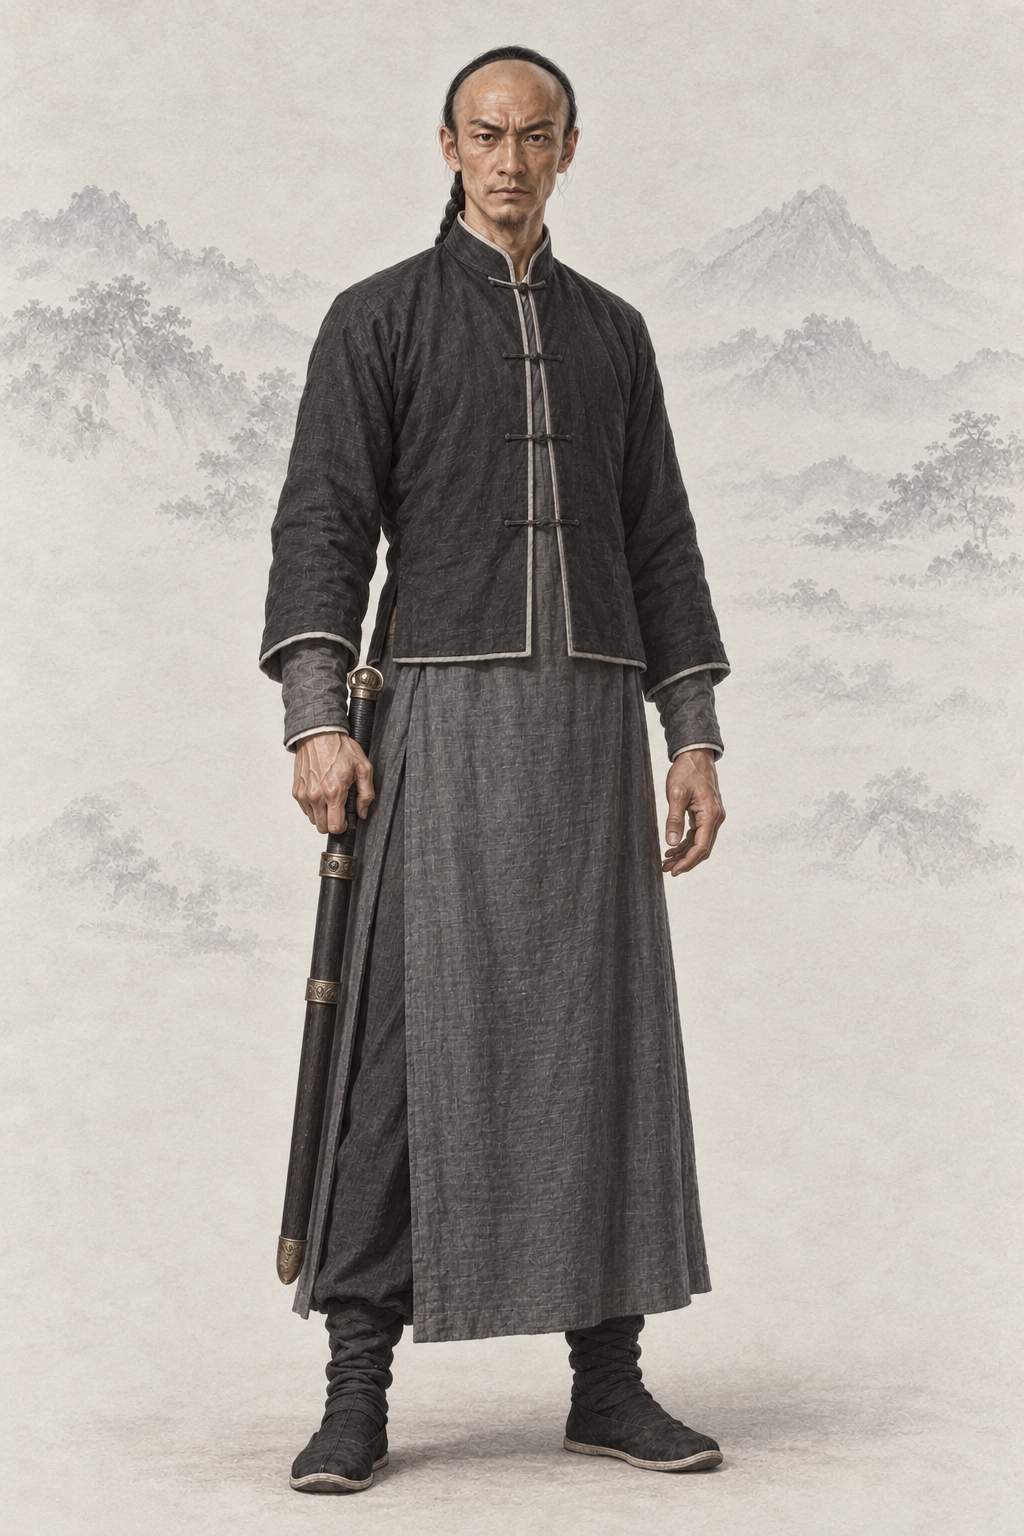
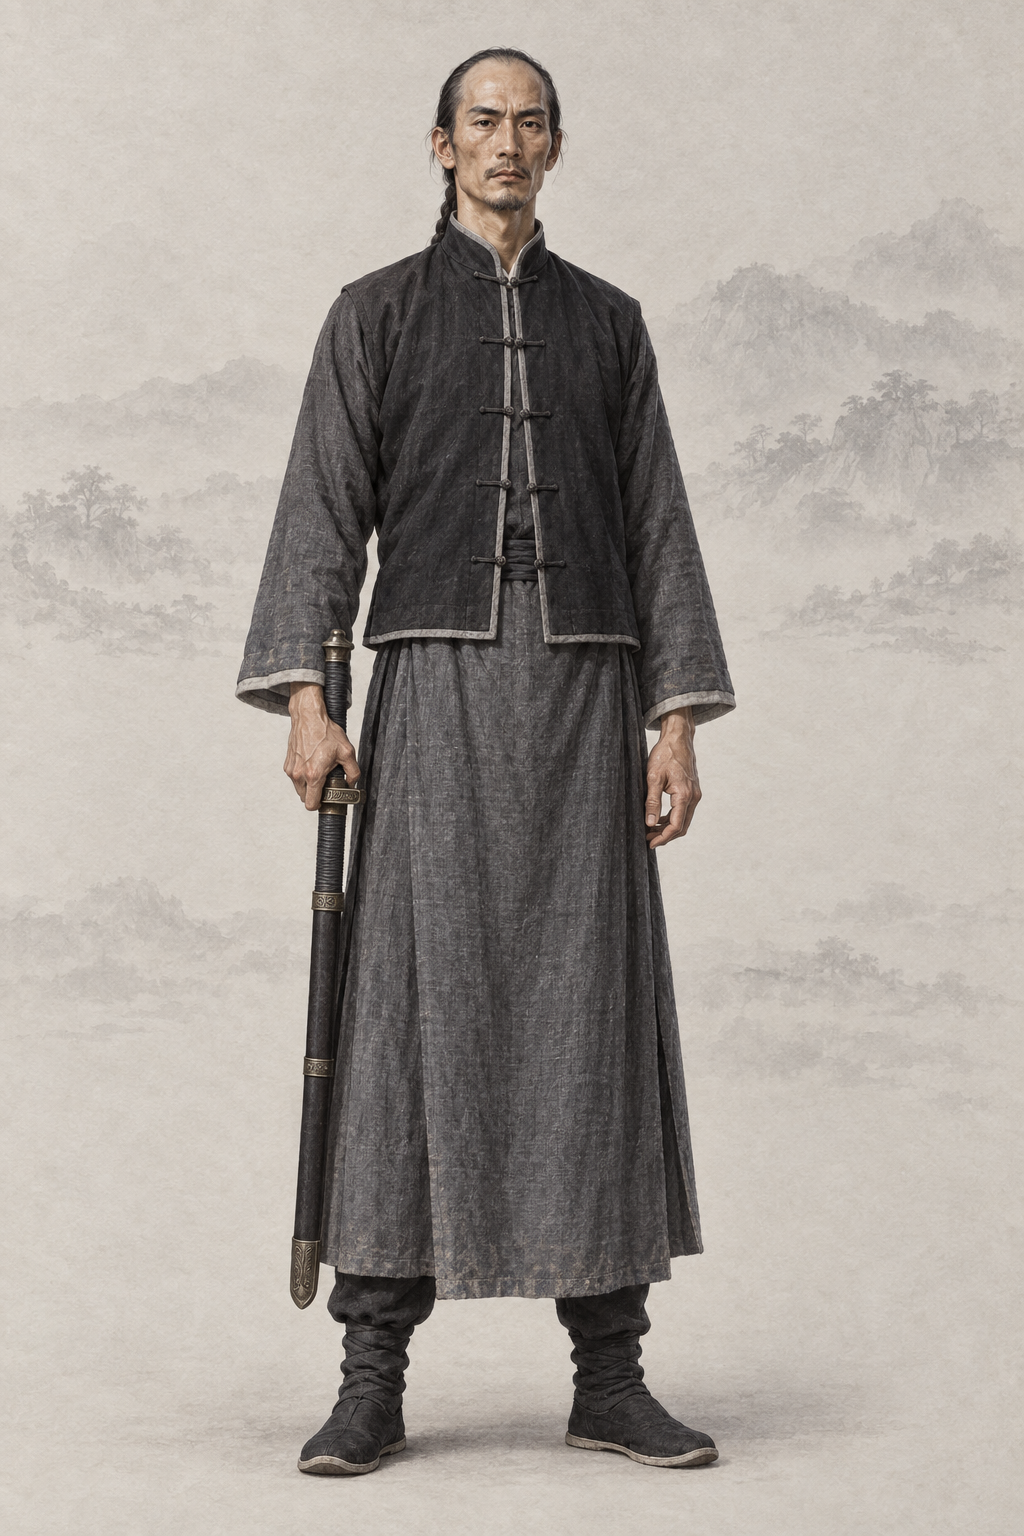
assets(character): por_npc_miaorenfeng__ch13_prime_recovered_base 苗人凤（codex · AR-32 经典剧照重出）
本机无剧照，文字 + 基线；提示词写回「## Gemini 提示词」，上一版留作历史，frontmatter 加 classic_ref。

diff --git a/assets/default/prompts/characters/ch13-feihu/npc_miaorenfeng.md b/assets/default/prompts/characters/ch13-feihu/npc_miaorenfeng.md
@@ -17,16 +17,40 @@ references:
   use: 第三输入用户王语嫣图只供暖浅灰留白、极浅水墨远山背景；不继承其中女性、脸、衣裙、体型、飘带或倾头，墨迹不侵入人物。
 status: redo
 redo_reason: "脸（蜡黄长脸、深目、肃然）基本对，但身材只是普通瘦长，缺原著「极高极瘦像竹篙、手掌大如蒲扇根根见骨」；保留脸，改身材，并用《金庸群侠传》头像的黑色立领短褂加强辨识。"
-reference_upload:
-- assets/default/character/male/ch13/por_npc_miaorenfeng__ch13_prime_recovered_base.png
-- assets/default/baseline/character/male/ref_npc_linghuchong__ch05_base01.png
 realism_revision: user_identity_pose_20261001
 codex_prompt_rev: 2026-10-02
+classic_ref:
+  version: "无剧照（本机没有1991 年台视《雪山飞狐》（含飞狐外传情节）里该角色的剧照，经典造型用文字描写）"
+  stills: []
+  note: "本机没有该角色的经典版剧照，只用文字和两张同性别基线出图（AR-32）"
+reference_upload:
+- assets/default/baseline/character/male/ref_npc_linghuchong__ch05_base01.png
+- assets/default/baseline/character/male/ref_npc_xiaofeng__ch01_base01.png
 ---
 
 # 苗人凤 · 人物写实修正
 
 ## Gemini 提示词
+
+> 2026-10-02 AR-32 经典剧照重出（6 号出图员，codex exec · image_gen 出图）：本机没有该角色剧照：只上传两张同性别基线，经典造型用文字描写。剧照只借鉴发型、服饰、配色、标志道具、气质与面部特征，重新绘制成项目画风，不照搬照片的构图、光影和姿势；人物一律成年；清代男子按清制剃额留辫。提示词里不写演员名。上一版提示词保留在下一节作历史。
+
+```text
+生成一张 2:3 竖幅全身人物立绘：单人、单一视角、完整全身——头顶、双手、双脚和手中器物的两端都在画面内，四周留出自然空白；人物站姿自然，身体基本朝向正面，头部端正（不歪头、不仰不俯），镜头平视。
+【参考图】随提示词上传的两张参考图是本项目画风基线：画风、用色、光线、质感和暖浅灰纸底加淡水墨背景以它们为准；只取画风，不取长相。
+【画风】写实手绘古风人物插画，与本项目写实武侠角色立绘同一画风，像功力深厚的画师用细腻笔触画出的真实人物。手绘插画质感，不是 CG 渲染：不要过度光滑的皮肤、完美对称的五官、塑料高光、过度锐利的发丝；保留自然的笔触和细微不完美。皮肤有真实质感——细小毛孔、细纹、晒痕和自然的左右不对称，不磨皮、不油亮；头发是一缕缕自然的发丝和少量碎发；布料看得出经纬纹理、厚薄和自然垂坠的褶皱，带穿用过的轻微旧化，但完整不破烂；整体设色低饱和、沉稳；柔和的自然光从左上方照来，明暗过渡自然，不打舞台光、轮廓光或美颜柔光。不是照片，不是三维渲染，不是动漫或游戏 CG，也不是油画（没有厚涂笔触和画布纹理）。
+【背景】不透明的暖浅灰色纸底，只在远处有极淡的水墨远山和薄雾，大面积留白；人物与背景明暗分明、轮廓边缘干净完整（后续要自动抠图），水墨和纸纹只在背景里，不侵入人物和衣服；脚下只有很淡的一点接触阴影。
+【人物】苗人凤，金庸《飞狐外传》中人称「金面佛」的苗家剑高手，号称打遍天下无敌手，此时眼伤已经治好、视力正常。
+【年龄与体态】四十五岁上下的男人；极高极瘦，像一根竹篙，比常人高出一头，肩宽而薄，手臂很长，约八头身；一双手掌大如蒲扇，指节根根分明、青筋显露。
+【经典造型】要一眼认出是「金面佛」苗人凤——黑色立领短褂、蜡黄长脸、极高极瘦如竹篙、剑不出鞘，沉郁孤傲、不苟言笑的一代剑客。
+【面容】长脸，两颊瘦削凹陷，颧骨高；面皮蜡黄，略带病容；眉毛浓黑平直，眼窝深陷，眼神沉郁锐利；鼻梁高而直；薄唇紧闭，嘴角下沉；唇上和下巴有稀疏的短须；不笑。
+【发式】清代男子发式：前额剃净，后脑长辫垂背。
+【服饰】深灰色长袍，外罩一件黑色对襟短褂（立领，领口和门襟镶银灰色窄滚边），黑色长裤，布靴；朴素干净。
+【道具与姿态】右手垂握一柄完全入鞘的普通中式长剑，乌黑的剑鞘贴着腿侧；不出鞘。笔直地站着，冷峻孤傲，像一棵瘦松。
+【不要】画面里不要任何文字、题款、印章、签名、水印、台标、边框、分格或多视图；不要第二个人；不要幼态（童颜、娃娃脸、婴儿肥、儿童或少年身材、大头小身）；不要塑料感皮肤、磨皮美颜、网红脸（尖下巴大眼高鼻的模板脸）、过度对称、浓妆、偶像式打光、蜡像感；不要照片质感、三维渲染或动漫大眼；不要歪头、斜镜头；不要多指、缺指（设定的伤残除外）、手与器物粘连或悬空；汉式交领必须右衽（穿着者的左襟压在右襟上），不要左衽（设定为少数民族服制的除外），不要水平镜像；不要现代物品、日式服饰或日本刀、发光特效、法阵或能量光。不要蒙眼布或失明；不要胖或魁梧；不要笑容；不要金色面具或佛像；不要出鞘的剑。
+【画风基线】随提示词上传的参考图里，最后两张是本项目的立绘画风基线：只参考它们的画风、用色、光线、质感和暖浅灰纸底加淡水墨的背景处理，整体画风必须与它们一致——精细写实的数字手绘插画，不是油画，不要厚涂笔触和画布纹理。基线图只取画风，不取长相：不要照搬基线图里人物的长相、年龄、发型、服饰和姿势。
+```
+
+## 上一版 Gemini 提示词（2026-10-02 文字版；AR-32 经典剧照重出前，历史，不再用于出图）
 
 > 2026-10-02 Codex 人物线 2 号（AR-31）：在审核组稿上补一行「经典形象」（借鉴公认经典造型的发式、装束、配色、标志道具与气质，只写文字，不写演员名、不上传剧照），并补去 AI 化要求。本轮出图用下面第一个代码块；审核组原稿保留在其后的「审核组原稿」小节作历史。
 
